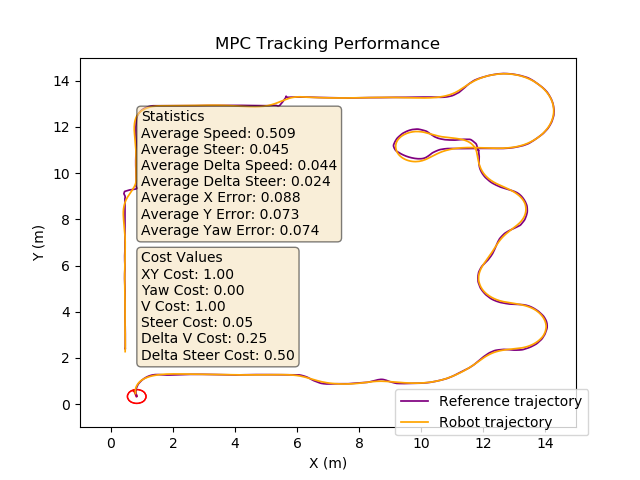
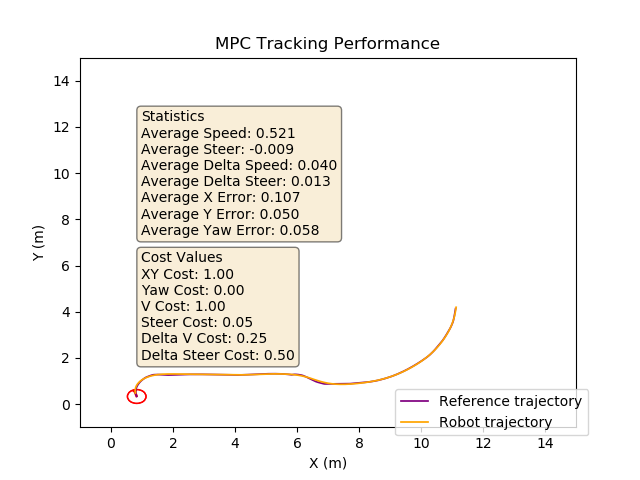
globalPlanner

diff --git a/scripts/mpc.py b/scripts/mpc.py
@@ -16,6 +16,7 @@ import argparse
 import tf
 from utility import Utility
 from std_srvs.srv import Trigger
+from global_planner import GlobalPlanner
 
 def call_trigger_service():
     try:
@@ -106,69 +107,10 @@ class MPC:
             rospy.init_node("mpc_node")
             self.useIMU = useIMU
             self.utils = Utility(useIMU=useIMU, subLane=False, subImu=True, subModel=True, pubOdom=True, useEkf=useEkf, subSign=sign)
-            # self.pub = rospy.Publisher("automobile/command",String,queue_size=3)
-            # self.msg = String()  
-            # self.model_sub = rospy.Subscriber("/gazebo/model_states", ModelStates, self.model_callback, queue_size=3)
-            # if useIMU:
-            #     self.imu_sub = rospy.Subscriber("/automobile/IMU", IMU, self.imu_callback, queue_size=3)
-            # else:
-            #     self.imu_sub = rospy.Subscriber("/imu", Imu, self.imu_callback, queue_size=3)
             self.real_x = None
             self.real_y = None
             self.yaw = None
-            self.car_idx = None
             self.lock = threading.Lock()
-        name = 'speedrun'
-        self.last_waypoint_index = 1
-        filepath = os.path.dirname(os.path.abspath(__file__))
-        runs = []
-        runs.append(np.load(os.path.join(filepath, 'waypoints/speedrun1_noint.npy')))
-        runs.append(np.load(os.path.join(filepath, 'waypoints/speedrun2_noint.npy')))
-        runs.append(np.load(os.path.join(filepath, 'waypoints/speedrun3_noint.npy')))
-        runs.append(np.load(os.path.join(filepath, 'waypoints/speedrun4_noint.npy')))
-        # wpts = np.array([[2.37, 13.3],[2.5, 13.32],[2.8, 13.36], [3.214,13.644]]).T
-        # runs.append(wpts)
-        # print("shape2: ",wpts.shape)
-        path_lengths = np.zeros(len(runs))
-        for i in range(len(runs)):
-            for j in range(len(runs[i][0])-1):
-                path_lengths[i] += np.linalg.norm(runs[i][:,j+1]-runs[i][:,j])
-            print(i,") path length: ", path_lengths[i])
-            runs[i] = interpolate_waypoints(runs[i].T, int(np.ceil(path_lengths[i]*10)))
-        self.waypoints = runs[0]
-        for i in range(1,len(runs)):
-            self.waypoints = np.vstack((self.waypoints, runs[i]))
-        print("waypoints: ", self.waypoints.shape)
-        self.waypoints = filter_waypoints(self.waypoints, 0.01).T
-        #calculate the path length of the waypoints
-        path_length = 0
-        for i in range(len(self.waypoints[0])-1):
-            path_length += np.linalg.norm(self.waypoints[:,i+1]-self.waypoints[:,i])
-        print("path length: ", path_length)
-        # self.waypoints = self.waypoints[:,:280]
-        # self.waypoints = self.waypoints[:,280:]
-        # self.waypoints[0] += 0.5
-        # self.waypoints[1] -= 1.5
-        # self.waypoints = np.vstack((self.waypoints[1], self.waypoints[0])) #flip x and y
-        # self.waypoints[0] = 15-self.waypoints[0] # flip x
-        # self.waypoints[1] = 15-self.waypoints[1]
-        # self.waypoints = self.waypoints[:, 0:24]
-        # self.waypoints = self.waypoints[:, :15]
-        self.waypoints_x = self.waypoints[0, :]
-        self.waypoints_y = self.waypoints[1, :]
-        start_index = int(len(self.waypoints_x)*0)
-        end_index = int(len(self.waypoints_x)*1)
-        theta_ref = np.arctan2(self.waypoints_y[start_index+1] - self.waypoints_y[start_index],
-                                self.waypoints_x[start_index+1] - self.waypoints_x[start_index])        
-        self.init_state = np.array([self.waypoints_x[start_index], self.waypoints_y[start_index], theta_ref])
-        # self.init_state = np.array([0.82, 0.09, 3.14159/2])
-        index, _ = self.find_closest_waypoint(self.init_state[0], self.init_state[1])
-        self.waypoints_x = self.waypoints_x[index:end_index]
-        self.waypoints_y = self.waypoints_y[index:end_index]
-        
-        self.kappa, self.wp_theta, self.wp_normals = compute_smooth_curvature(self.waypoints_x, self.waypoints_y)
-        # self.shift_waypoints(450, 537, self.wp_normals)
-        print("initial state: ", self.init_state, self.init_state.shape, self.init_state[0])
         self.x_max = 15
         self.x_min = 0
         self.y_max = 15
@@ -193,6 +135,90 @@ class MPC:
         self.delta_v_cost = 0.25
         self.delta_steer_cost = 0.5
         self.costs = np.array([self.xy_cost, self.yaw_cost, self.v_cost, self.steer_cost, self.delta_v_cost, self.delta_steer_cost])
+        
+        self.global_planner = GlobalPlanner()
+        run1, _ = self.global_planner.plan_path(86, 467)
+        run2, _ = self.global_planner.plan_path(467, 302)
+        run3, _ = self.global_planner.plan_path(302, 264)
+        run4, _ = self.global_planner.plan_path(264, 81)
+        runs = [run1, run2, run3, run4]
+        # runs = [np.load(os.path.join(filepath, f'waypoints/speedrun{i}_noint.npy')) for i in range(1, 5)]
+        start = self.global_planner.place_names['start']
+        dest1 = self.global_planner.place_names['highway1_start']
+        dest2 = self.global_planner.place_names['highway1_mid']
+        dest3 = self.global_planner.place_names['highway2_start']
+        dest4 = self.global_planner.place_names['highway2_mid']
+        dest5 = self.global_planner.place_names['parallel_parking1']
+        run1, _ = self.global_planner.plan_path(start, dest1)
+        run2, _ = self.global_planner.plan_path(dest1, dest2)
+        run3, _ = self.global_planner.plan_path(dest2, dest3)
+        run4, _ = self.global_planner.plan_path(dest3, dest4)
+        run5, _ = self.global_planner.plan_path(dest4, dest5)
+        runs = [run1, run2]#, run3, run4, run5]
+        name = 'speedrun'
+        self.last_waypoint_index = 1
+        filepath = os.path.dirname(os.path.abspath(__file__))
+        # wpts = np.array([[2.37, 13.3],[2.5, 13.32],[2.8, 13.36], [3.214,13.644]]).T
+        # runs.append(wpts)
+        # print("shape2: ",wpts.shape)
+
+        # Compute path lengths 
+        path_lengths = [np.sum(np.linalg.norm(run[:, 1:] - run[:, :-1], axis=0)) for run in runs]
+        for i, length in enumerate(path_lengths):
+            print(i, ") path length: ", length)
+            runs[i] = interpolate_waypoints(runs[i].T, int(np.ceil(length*10)))
+        # Combine all runs into a single set of waypoints
+        self.waypoints = np.vstack(runs)
+        print("waypoints: ", self.waypoints.shape)
+        self.waypoints = filter_waypoints(self.waypoints, 0.01).T
+        # Calculate the total path length of the waypoints
+        total_path_length = np.sum(np.linalg.norm(self.waypoints[:, 1:] - self.waypoints[:, :-1], axis=0))
+        print("path length: ", total_path_length)
+        # self.waypoints = self.waypoints[:,:280]
+        # self.waypoints = self.waypoints[:,280:]
+        # self.waypoints[0] += 0.5
+        # self.waypoints[1] -= 1.5
+        # self.waypoints = np.vstack((self.waypoints[1], self.waypoints[0])) #flip x and y
+        # self.waypoints[0] = 15-self.waypoints[0] # flip x
+        # self.waypoints[1] = 15-self.waypoints[1]
+        # self.waypoints = self.waypoints[:, 0:24]
+        # self.waypoints = self.waypoints[:, :15]
+        self.waypoints_x = self.waypoints[0, :]
+        self.waypoints_y = self.waypoints[1, :]
+        # wpts = np.load(os.path.join(filepath, 'waypoints/parallel_park.npy'))
+        # self.waypoints_x = wpts[:, 0]+5
+        # self.waypoints_y = wpts[:, 1]+5
+        start_index = int(len(self.waypoints_x)*0)
+        end_index = int(len(self.waypoints_x)*1)
+        theta_ref = np.arctan2(self.waypoints_y[start_index+1] - self.waypoints_y[start_index],
+                                self.waypoints_x[start_index+1] - self.waypoints_x[start_index])        
+        self.init_state = np.array([self.waypoints_x[start_index], self.waypoints_y[start_index], theta_ref])
+        # self.init_state = np.array([0.82, 0.09, 3.14159/2])
+        index, _ = self.find_closest_waypoint(self.init_state[0], self.init_state[1])
+        self.waypoints_x = self.waypoints_x[index:end_index]
+        self.waypoints_y = self.waypoints_y[index:end_index]
+        self.num_waypoints = len(self.waypoints_x)
+        self.kappa, self.wp_theta, self.wp_normals = compute_smooth_curvature(self.waypoints_x, self.waypoints_y)
+        self.v_refs  = self.v_ref / (1 + np.abs(self.kappa))
+        self.v_refs[-2:] = 0
+        k_steer = 0 #0.4/np.amax(np.abs(self.kappa))
+        self.steer_ref = k_steer * self.kappa
+        # Extend waypoints and reference values by N
+        self.waypoints_x = np.pad(self.waypoints_x, (0,self.N+4), 'edge')
+        self.waypoints_y = np.pad(self.waypoints_y, (0,self.N+4), 'edge')
+        self.kappa = np.pad(self.kappa, (0,self.N+5), 'edge')
+        self.wp_theta = np.pad(self.wp_theta, (0,self.N+5), 'edge')
+        self.wp_normals = np.pad(self.wp_normals, ((0,self.N+5),(0,0)), 'edge')
+        self.v_refs = np.pad(self.v_refs, (0,self.N+5), 'edge')
+        self.steer_ref = np.pad(self.steer_ref, (0,self.N+5), 'edge')
+        self.state_refs = np.vstack((self.waypoints_x, self.waypoints_y, self.wp_theta[1:])).T
+        self.input_refs = np.vstack((self.v_refs, self.steer_ref)).T
+        self.waypoints = np.vstack((self.waypoints_x, self.waypoints_y)).T
+        print("state_refs: ", self.state_refs.shape, ", input_refs: ", self.input_refs.shape)
+
+        # self.change_lane(589, 609, self.wp_normals)
+        # self.change_lane(616, 636, self.wp_normals)
+        print("initial state: ", self.init_state, self.init_state.shape, self.init_state[0])
         
         self.export_fig = os.path.join(filepath+'/gifs',name + gaz_bool + '_N'+str(self.N) + '_vref'+str(self.v_ref) 
                                        + '_T'+str(self.T) + '_vmax'+str(self.v_max) + '_latency'+str(self.latency) 
@@ -288,7 +314,7 @@ class MPC:
         self.mpciter = 0
         self.start_time = time.time()
         self.index_t = []
-    def shift_waypoints(self, start_index, end_index, normals, shift_distance=0.36):
+    def change_lane(self, start_index, end_index, normals, shift_distance=0.36):
         """
         Shift waypoints in the range [start_index, end_index] by shift_distance meters in the direction of their normal.
         
@@ -297,8 +323,8 @@ class MPC:
         - end_index: Ending index of waypoints to shift.
         - shift_distance: Distance to shift waypoints by.
         """
-        self.waypoints_x[start_index:end_index] += normals[start_index:end_index, 0] * shift_distance
-        self.waypoints_y[start_index:end_index] += normals[start_index:end_index, 1] * shift_distance
+        self.state_refs[start_index:end_index,0] += normals[start_index:end_index, 0] * shift_distance
+        self.state_refs[start_index:end_index,1] += normals[start_index:end_index, 1] * shift_distance
     def shift_movement(self, t0, x0, u, x_n, f): 
         f_value = f(x0, u[0])
         st = x0 + self.T*f_value
@@ -347,56 +373,19 @@ class MPC:
         target_idx = max(self.last_waypoint_index, closest_idx)
         return min(target_idx, len(self.waypoints_x) - 1)
 
-    def desired_trajectory(self, index):
-        if index >= len(self.waypoints_x) - 1:
-            index = len(self.waypoints_x) - 2
-        v_ref = self.v_ref / (1 + np.abs(self.kappa[index]))
-
-        # Adjust the steering reference based on the curvature
-        steer_ref = self.kappa[index]
-        return self.waypoints_x[index], self.waypoints_y[index], self.wp_theta[index+1], v_ref, self.steer_ref
-
     def desired_command_and_trajectory(self, index):
-        # Get a series of reference states and inputs based on the index.
-        x_refs = np.zeros(self.N + 1)
-        y_refs = np.zeros(self.N + 1)
-        theta_refs = np.zeros(self.N + 1)
-        v_refs = np.zeros(self.N)
-        steer_refs = np.zeros(self.N)
+        return self.state_refs[index:index + self.N + 1], self.input_refs[index:index + self.N]
 
-        # Populate the reference states and inputs based on the waypoints
-        for i in range(self.N):
-            if index + i < len(self.waypoints_x) - 1:
-                x_refs[i], y_refs[i], theta_refs[i], v_refs[i], steer_refs[i] = self.desired_trajectory(index + i)
-            else: # If we have reached the end of the waypoints, just use the last waypoint for the remaining steps
-                x_refs[i], y_refs[i], theta_refs[i], v_refs[i], steer_refs[i] = self.desired_trajectory(len(self.waypoints_x) - 1)
-        
-        # Get the last reference state separately (without setting v_ref and steer_ref)
-        if index + self.N < len(self.waypoints_x) - 1:
-            x_refs[self.N], y_refs[self.N], theta_refs[self.N] = self.waypoints_x[index + self.N], self.waypoints_y[index + self.N], theta_refs[self.N - 1]
-        else:
-            x_refs[self.N], y_refs[self.N], theta_refs[self.N] = self.waypoints_x[-1], self.waypoints_y[-1], theta_refs[self.N - 1]
-
-        state_refs = np.vstack((x_refs, y_refs, theta_refs)).T
-        input_refs = np.vstack((v_refs, steer_refs)).T
-
-        return state_refs, input_refs
-
-    def model_callback(self, model):
-        if self.car_idx is None:
-            try:
-                self.car_idx = model.name.index("automobile")
-            except ValueError:
-                return
-        car_pose = model.pose[self.car_idx]
-        with self.lock:
-            self.real_x = car_pose.position.x
-            self.real_y = car_pose.position.y+15
-
-    def imu_callback(self, imu):
-        with self.lock:
-            self.yaw = tf.transformations.euler_from_quaternion([imu.orientation.x, imu.orientation.y, imu.orientation.z, imu.orientation.w])[2]
-            # self.yaw = imu.yaw
+    def update_and_solve(self):
+        ## set parameter, here only update initial state of x (x0)
+        self.opti.set_value(self.opt_x_ref[1:,:], self.next_trajectories[1:])
+        self.opti.set_value(self.opt_u_ref, self.next_controls)
+        ## provide the initial guess of the optimization targets
+        self.opti.set_initial(self.opt_controls, self.u0.reshape(self.N, 2))
+        self.opti.set_initial(self.opt_states, self.next_states)
+        ## solve the problem once again
+        sol = self.opti.solve()
+        return sol.value(self.opt_controls), sol.value(self.opt_states)
 
 if __name__ == '__main__':
     parser = argparse.ArgumentParser()
@@ -431,8 +420,8 @@ if __name__ == '__main__':
     length = len(mpc.waypoints_x)
     target_waypoint_index = 0
     print("length: ", length)
-    while mpc.mpciter < 620:
-        if target_waypoint_index >= length-2:
+    while True:
+        if target_waypoint_index >= mpc.num_waypoints-1:
         # if target_waypoint_index >= 375:
             break
         t = time.time()
@@ -441,7 +430,7 @@ if __name__ == '__main__':
                 if mpc.utils.object_detected(12) and target_waypoint_index>=mpc.detected_index:
                     print("car detected!, changing lane...")
                     mpc.detected_index = target_waypoint_index+20
-                    mpc.shift_waypoints(target_waypoint_index, mpc.detected_index, mpc.wp_normals)
+                    mpc.change_lane(target_waypoint_index, mpc.detected_index, mpc.wp_normals)
             with mpc.lock:
                 mpc.current_state[2] = mpc.utils.yaw
                 if args.odom:
@@ -467,20 +456,10 @@ if __name__ == '__main__':
         initial_state_with_latency[2] = np.arctan2(np.sin(initial_state_with_latency[2]), np.cos(initial_state_with_latency[2]))
         mpc.current_state[2] = np.arctan2(np.sin(mpc.current_state[2]), np.cos(mpc.current_state[2]))
         mpc.next_trajectories, mpc.next_controls = mpc.desired_command_and_trajectory(target_waypoint_index)
-        ## set parameter, here only update initial state of x (x0)
-        mpc.opti.set_value(mpc.opt_x_ref[1:,:], mpc.next_trajectories[1:,:])
-        mpc.opti.set_value(mpc.opt_u_ref, mpc.next_controls)
-        ## provide the initial guess of the optimization targets
-        mpc.opti.set_initial(mpc.opt_controls, mpc.u0.reshape(mpc.N, 2))# (N, 2)
-        mpc.opti.set_initial(mpc.opt_states, mpc.next_states) # (N+1, 3)
-        ## solve the problem once again
         t_ = time.time()
-        sol = mpc.opti.solve()
+        u_res, x_m = mpc.update_and_solve()
         t2 = time.time()- t_
         mpc.index_t.append(t2)
-        ## obtain the control input
-        u_res = sol.value(mpc.opt_controls)
-        x_m = sol.value(mpc.opt_states)
         # if target_waypoint_index < length-1:
             # print("i) ", mpc.mpciter,"ref_traj:", np.around(mpc.next_trajectories, decimals=2)[0], 
             #     "cur:", np.around(initial_state_with_latency, decimals=2), "ctrl:", 
@@ -491,7 +470,7 @@ if __name__ == '__main__':
         mpc.u_cc.append(u_res)
         mpc.t_c.append(mpc.t0)
         mpc.x_c.append(x_m)
-        mpc.t0, mpc.current_state, mpc.u0, next_states = mpc.shift_movement(mpc.t0, mpc.current_state, mpc.u_cc[-mpc.latency_num-1], x_m, mpc.f_np)
+        mpc.t0, mpc.current_state, mpc.u0, _ = mpc.shift_movement(mpc.t0, mpc.current_state, mpc.u_cc[-mpc.latency_num-1], x_m, mpc.f_np)
         # mpc.current_state = mpc.add_gaussian_noise(mpc.current_state)
         mpc.xx.append(mpc.real_state) if args.odom else mpc.xx.append(mpc.current_state)
         mpc.mpciter = mpc.mpciter + 1

diff --git a/scripts/global_planner.py b/scripts/global_planner.py
@@ -16,6 +16,22 @@ class GlobalPlanner:
             self.intersection[node] = data['intersection']
         self.wp_x = []
         self.wp_y = []
+        self.place_names = {}
+
+        self.place_names = {
+            "parallel_parking1": 180,
+            "parallel_parking2": 182,
+            "front_parking1": 160,
+            "front_parking2": 162,
+            "highway1_start": 49,
+            "highway1_mid": 326,
+            "highway2_start": 343,
+            "highway2_mid": 357,
+            "curved_path": 426,
+            "start": 86,
+            "end": 85
+        }
+        
     def plan_path(self, start, end):
         path = nx.dijkstra_path(self.G, source=str(start), target=str(end))
         path_edges = [(path[i], path[i + 1]) for i in range(len(path) - 1)]

diff --git a/scripts/utility.py b/scripts/utility.py
@@ -119,7 +119,7 @@ class Utility:
             self.box2 = []
             self.box3 = []
             self.confidence = []
-            self.min_sizes = [25,25,40,50,45,35,30,25,25,130,75,72,110]
+            self.min_sizes = [25,25,40,50,45,35,30,25,25,130,75,72,90]
             self.max_sizes = [100,75,125,100,120,125,70,75,100,350,170,250,320]
             self.sign_sub = rospy.Subscriber("/sign", Sign, self.sign_callback, queue_size=3)
             self.sign = Sign()

diff --git a/scripts/localization_plot.py b/scripts/localization_plot.py
@@ -305,7 +305,7 @@ class Odom():
         plt.tight_layout()
         path = os.path.join(os.path.dirname(os.path.abspath(__file__)), "testPlots")
         os.makedirs(path, exist_ok=True)
-        name = os.path.join(path, "speedrun4.png")
+        name = os.path.join(path, "hw1.png")
         plt.savefig(name)
         print("Plot saved")
         # plt.show()
